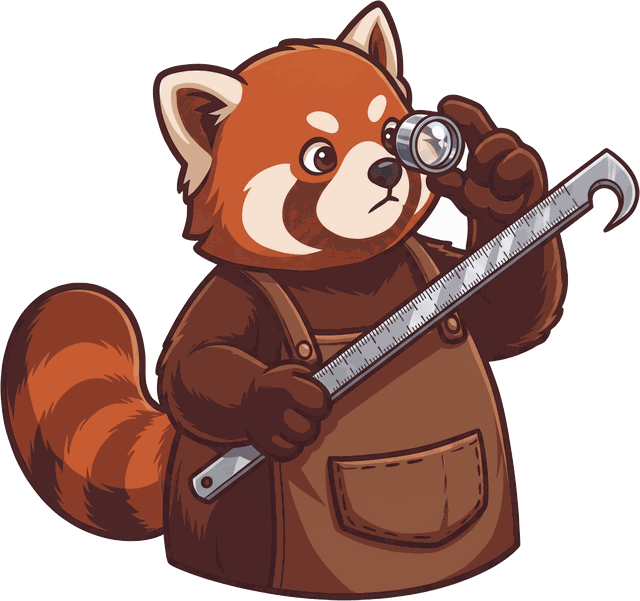
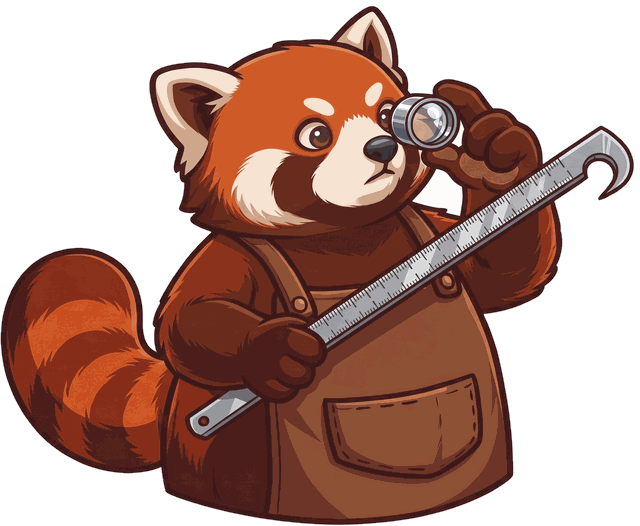
Target Messaging Image Update
Fixes image used in Target Messaging module.

diff --git a/modules/target-messaging/target-messaging.js b/modules/target-messaging/target-messaging.js
@@ -347,8 +347,8 @@
     <div class="tmsg__stage is-idle" data-el="stage">
     <section class="tmsg__card tmsg__idle" aria-label="Drafted messaging">
       <div class="tmsg__intro">
-        <img class="tmsg__intro-img" src="modules/target-messaging/target-messaging-panda.png"
-          alt="" width="640" height="601">
+        <img class="tmsg__intro-img" src="modules/target-messaging/target-messaging-panda.png?v=2"
+          alt="" width="640" height="526">
         <div class="tmsg__intro-copy">
           <p class="tmsg__intro-title">Let's tailor your message!</p>
           <p class="tmsg__intro-text">Select your desired job title and one or more sources for messaging,
